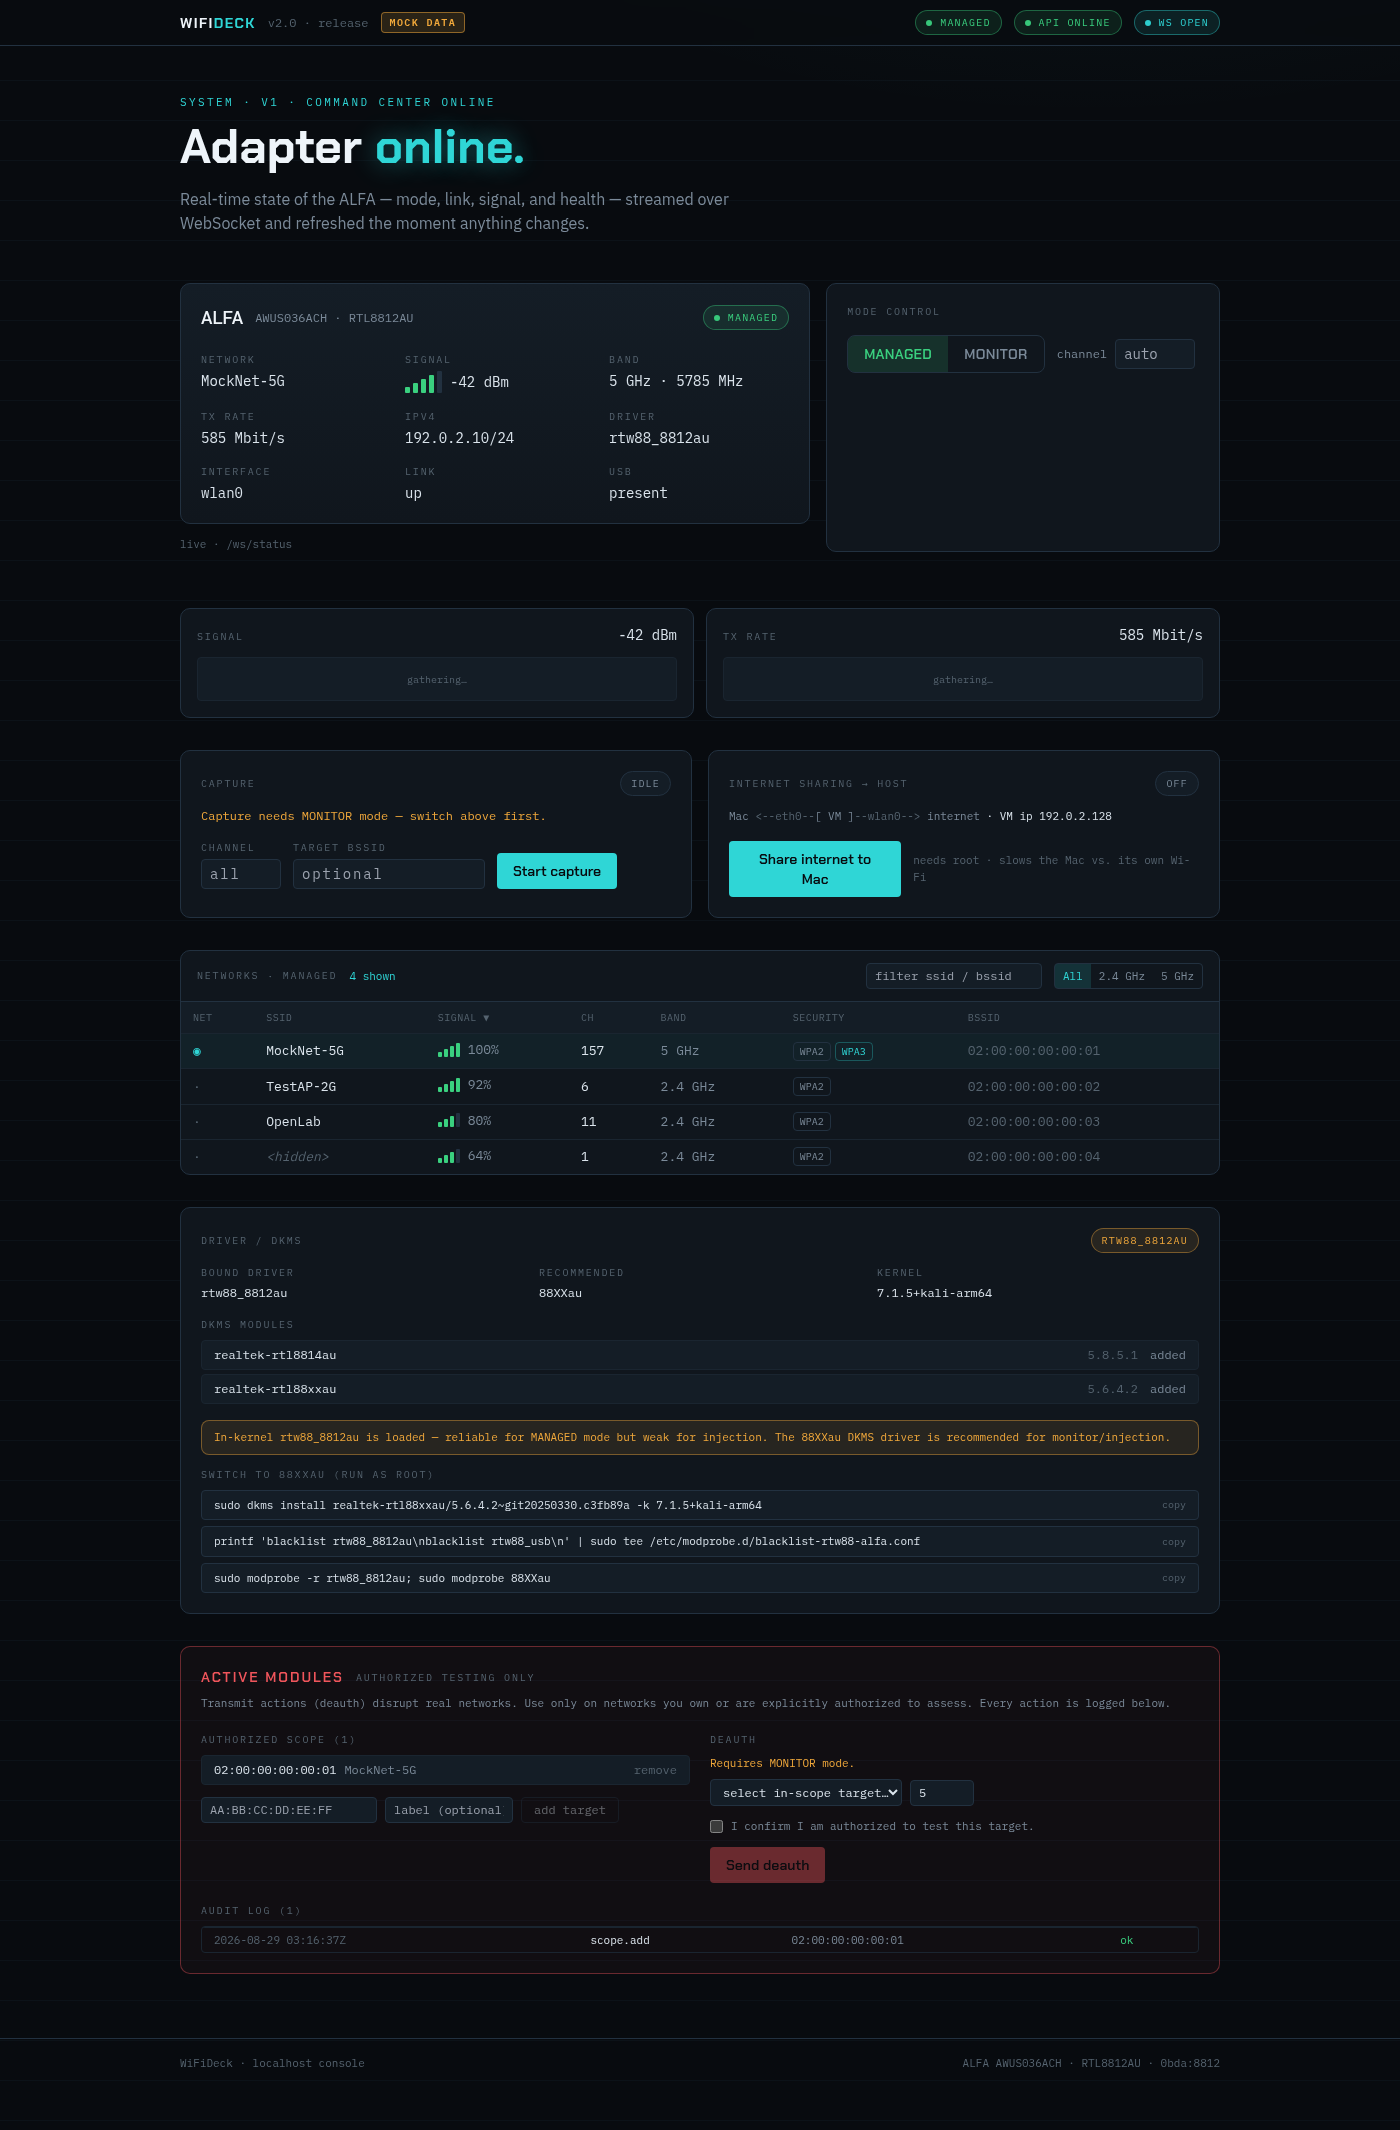
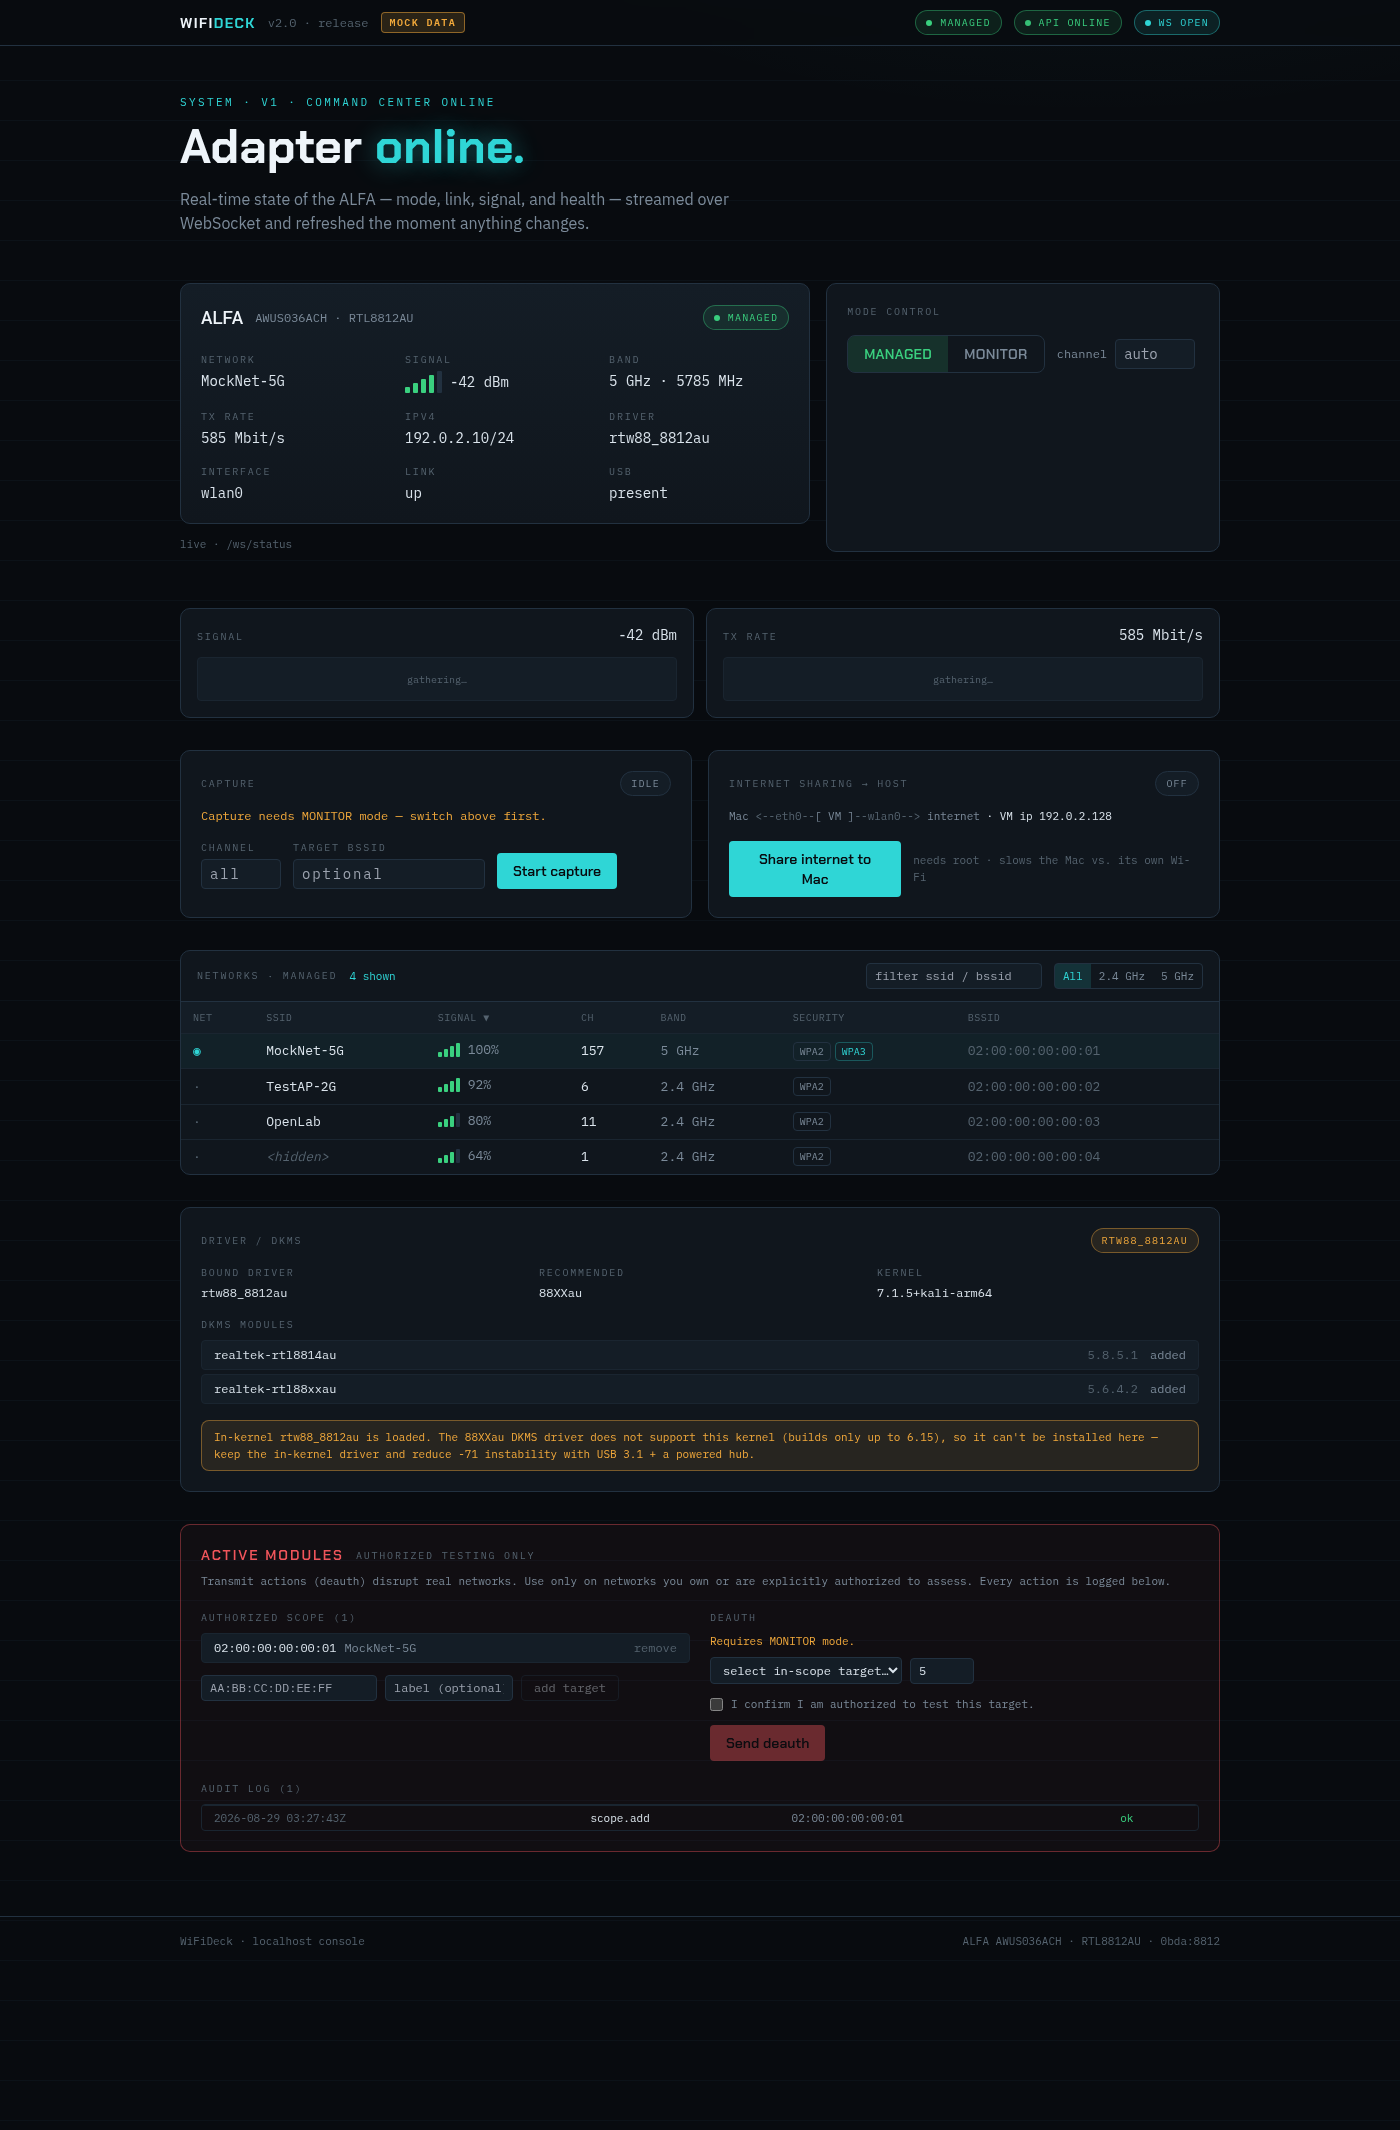
Fix driver panel: don't recommend an unbuildable driver
The Driver panel recommended 88XXau and handed out blacklist+modprobe commands
unconditionally. On kernels newer than the driver's BUILD_EXCLUSIVE_KERNEL_MAX
(e.g. Kali arm64 7.1.5 vs the driver's 6.15 cap) DKMS can't build it, so running
those commands blacklists the working in-kernel driver with no replacement and
leaves the adapter dead.

- DriverService now reads BUILD_EXCLUSIVE_KERNEL_MAX and compares the running
  kernel (kernel_buildable); when the driver can't build it reports
  recommended_buildable=false, kernel_max, a warning note, and an EMPTY
  install_hint (no bricking commands)
- DriverInfo model + client type gain recommended_buildable + kernel_max
- fixtures + tests: kernel_buildable unit cases, endpoint asserts no hint on
  too-new kernel; regenerated README screenshot showing the safe warning

Backend ruff clean, 55 pytest; frontend 25 vitest, lint/build ok.

diff --git a/frontend/src/test/DriverPanel.test.tsx b/frontend/src/test/DriverPanel.test.tsx
@@ -10,6 +10,8 @@ const inKernel: DriverInfo = {
   dkms: [{ name: "realtek-rtl88xxau", version: "5.6.4.2~git", status: "added" }],
   recommended: "88XXau",
   using_recommended: false,
+  recommended_buildable: true,
+  kernel_max: null,
   note: "In-kernel rtw88_8812au is loaded — weak for injection.",
   install_hint: ["sudo dkms install realtek-rtl88xxau/5.6.4.2 -k 7.1.5+kali-arm64"],
 };

diff --git a/frontend/src/api/client.ts b/frontend/src/api/client.ts
@@ -170,6 +170,8 @@ export interface DriverInfo {
   dkms: DkmsModule[];
   recommended: string;
   using_recommended: boolean;
+  recommended_buildable: boolean;
+  kernel_max: string | null;
   note: string | null;
   install_hint: string[];
 }

diff --git a/backend/app/services/driver.py b/backend/app/services/driver.py
@@ -19,6 +19,18 @@ RECOMMENDED = "88XXau"
 RECOMMENDED_ALIASES = {"88XXau", "8812au", "rtl88xxau"}
 
 
+def _version_tuple(s: str) -> tuple[int, ...]:
+    parts = re.findall(r"\d+", s)
+    return tuple(int(p) for p in parts[:2]) if parts else (0,)
+
+
+def kernel_buildable(kernel: str, kernel_max: str | None) -> bool:
+    """True if `kernel` is within the DKMS driver's BUILD_EXCLUSIVE_KERNEL_MAX."""
+    if not kernel_max:
+        return True  # no declared limit -> assume it builds
+    return _version_tuple(kernel) <= _version_tuple(kernel_max)
+
+
 def parse_dkms_status(text: str) -> list[DkmsModule]:
     """Parse `dkms status` (handles both 'name/ver: status' and
     'name/ver, kernel, arch: status' forms)."""
@@ -47,6 +59,15 @@ class DriverService:
                 return mod
         return None
 
+    async def _kernel_max(self) -> str | None:
+        """The 88XXau DKMS driver's BUILD_EXCLUSIVE_KERNEL_MAX, if any."""
+        r = await self.runner.run(
+            ["sh", "-c",
+             "grep -h BUILD_EXCLUSIVE_KERNEL_MAX /usr/src/realtek-rtl88xxau-*/dkms.conf 2>/dev/null | head -1"]
+        )
+        m = re.search(r"(\d+\.\d+)", r.stdout)
+        return m.group(1) if m else None
+
     async def info(self) -> DriverInfo:
         # Prefer the driver bound to the live interface; fall back to the loaded
         # module so the panel still reports something when the adapter is unplugged.
@@ -54,10 +75,13 @@ class DriverService:
         kernel = (await self.runner.run(["uname", "-r"])).stdout.strip()
         dkms = parse_dkms_status((await self.runner.run(["dkms", "status"])).stdout)
 
+        kernel_max = await self._kernel_max()
+        buildable = kernel_buildable(kernel, kernel_max)
         using = bool(current and current in RECOMMENDED_ALIASES)
         note = None
         hint: list[str] = []
-        if not using:
+
+        if not using and buildable:
             note = (
                 "In-kernel rtw88_8812au is loaded — reliable for MANAGED mode but weak "
                 "for injection. The 88XXau DKMS driver is recommended for monitor/injection."
@@ -70,6 +94,14 @@ class DriverService:
                     "sudo tee /etc/modprobe.d/blacklist-rtw88-alfa.conf",
                     "sudo modprobe -r rtw88_8812au; sudo modprobe 88XXau",
                 ]
+        elif not using and not buildable:
+            # The recommended driver won't build on this kernel — do NOT hand out the
+            # blacklist commands, or they'd leave the adapter with no working driver.
+            note = (
+                f"In-kernel rtw88_8812au is loaded. The 88XXau DKMS driver does not support "
+                f"this kernel (builds only up to {kernel_max}), so it can't be installed here — "
+                f"keep the in-kernel driver and reduce -71 instability with USB 3.1 + a powered hub."
+            )
 
         return DriverInfo(
             current=current,
@@ -77,6 +109,8 @@ class DriverService:
             dkms=dkms,
             recommended=RECOMMENDED,
             using_recommended=using,
+            recommended_buildable=buildable,
+            kernel_max=kernel_max,
             note=note,
             install_hint=hint,
         )

diff --git a/backend/tests/test_driver.py b/backend/tests/test_driver.py
@@ -1,7 +1,7 @@
-"""Driver/DKMS parser + /api/driver (mock mode)."""
+"""Driver/DKMS parser + kernel-compat check + /api/driver (mock mode)."""
 from __future__ import annotations
 
-from app.services.driver import parse_dkms_status
+from app.services.driver import kernel_buildable, parse_dkms_status
 
 
 def test_parse_dkms_status_simple():
@@ -20,16 +20,26 @@ def test_parse_dkms_status_full_form():
     assert mods[0].status == "installed"
 
 
-def test_driver_endpoint(client, auth_headers):
+def test_kernel_buildable():
+    # driver builds only up to 6.15
+    assert kernel_buildable("6.10.0-kali", "6.15") is True
+    assert kernel_buildable("6.15.2", "6.15") is True
+    assert kernel_buildable("7.1.5+kali-arm64", "6.15") is False   # the real regression
+    assert kernel_buildable("6.16.0", "6.15") is False
+    assert kernel_buildable("7.1.5", None) is True                 # no declared limit
+
+
+def test_driver_endpoint_kernel_too_new(client, auth_headers):
+    # mock kernel is 7.1.5, driver max is 6.15 -> NOT buildable: no bricking commands
     r = client.get("/api/driver", headers=auth_headers)
     assert r.status_code == 200
     d = r.json()
     assert d["current"] == "rtw88_8812au"
     assert d["kernel"].startswith("7.1.5")
-    assert d["using_recommended"] is False          # in-kernel driver
-    assert d["note"]                                  # explains the recommendation
-    assert any("dkms install" in h for h in d["install_hint"])
-    assert any(m["name"] == "realtek-rtl88xxau" for m in d["dkms"])
+    assert d["recommended_buildable"] is False
+    assert d["kernel_max"] == "6.15"
+    assert d["install_hint"] == []                     # must NOT hand out blacklist commands
+    assert "does not support this kernel" in d["note"]
 
 
 def test_driver_requires_token(client):

diff --git a/backend/app/models/driver.py b/backend/app/models/driver.py
@@ -16,5 +16,7 @@ class DriverInfo(BaseModel):
     dkms: list[DkmsModule] = []
     recommended: str = "88XXau"
     using_recommended: bool = False
+    recommended_buildable: bool = True   # does the DKMS driver support this kernel?
+    kernel_max: str | None = None        # BUILD_EXCLUSIVE_KERNEL_MAX, if declared
     note: str | None = None
     install_hint: list[str] = []

diff --git a/backend/app/services/fixtures.py b/backend/app/services/fixtures.py
@@ -93,4 +93,6 @@ def match(args: list[str]) -> tuple[int, str, str]:
         return (0, KERNEL, "")
     if cmd == "dkms":
         return (0, DKMS_STATUS, "")
+    if cmd == "sh" and any("BUILD_EXCLUSIVE" in a for a in args):
+        return (0, 'BUILD_EXCLUSIVE_KERNEL_MAX="6.15"\n', "")
     return (0, "", "")
